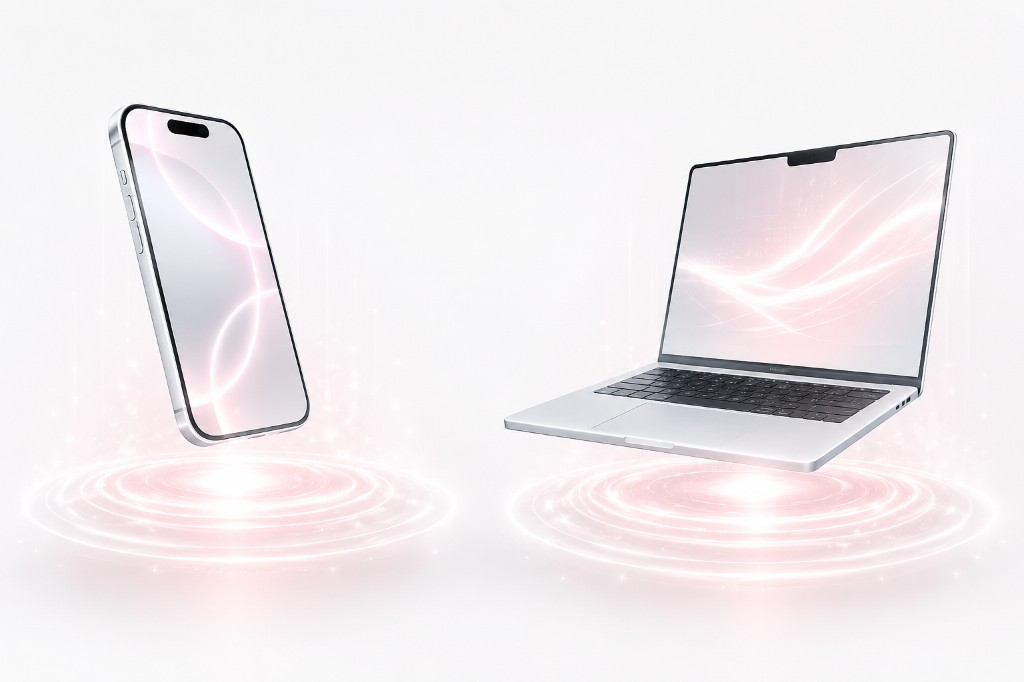
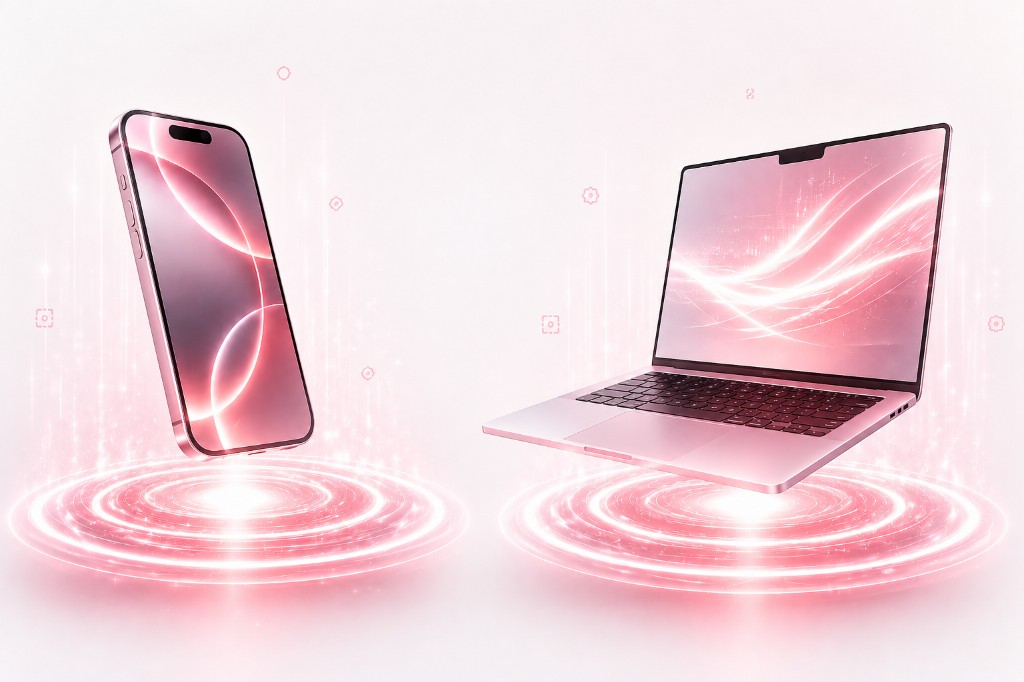
fix(home): lock hero device art and align light splash colors.
Update light hero PNG edge blending, rose-tinted splash palette, and fixed scene height so recommendation cards no longer shift the device backdrop.

diff --git a/scss/pc/_fixora-light-theme.scss b/scss/pc/_fixora-light-theme.scss
@@ -26,6 +26,7 @@
 
 			&__device-backdrop {
 				opacity: 1;
+				overflow: hidden;
 
 				&::before,
 				&::after {
@@ -34,24 +35,26 @@
 				}
 			}
 
+			/* Baked-in glow in light PNG — avoid extra ring that reads as a frame */
 			&__device-glow {
-				display: block;
-				background: radial-gradient(
-					ellipse,
-					rgba(225, 29, 72, 0.14) 0%,
-					rgba(225, 29, 72, 0.06) 45%,
-					transparent 70%
-				);
-				filter: blur(30px);
-				animation: fixora-hero-glow-pulse 4s ease-in-out infinite;
-				opacity: 1;
+				display: none;
 			}
 
 			&__device-img {
-				opacity: 0.85;
-				filter: drop-shadow(0 32px 56px rgba(193, 18, 31, 0.12));
-				mask-image: radial-gradient(ellipse 92% 95% at 50% 50%, #000 62%, transparent 96%);
-				-webkit-mask-image: radial-gradient(ellipse 92% 95% at 50% 50%, #000 62%, transparent 96%);
+				opacity: 1;
+				filter: none;
+				border: none;
+				outline: none;
+				box-shadow: none;
+				/* Fade all four edges so the PNG rectangle melts into splash/hero bg */
+				-webkit-mask-image:
+					linear-gradient(to bottom, transparent 0%, #000 11%, #000 84%, transparent 100%),
+					linear-gradient(to right, transparent 0%, #000 9%, #000 91%, transparent 100%);
+				-webkit-mask-composite: source-in;
+				mask-image:
+					linear-gradient(to bottom, transparent 0%, #000 11%, #000 84%, transparent 100%),
+					linear-gradient(to right, transparent 0%, #000 9%, #000 91%, transparent 100%);
+				mask-composite: intersect;
 			}
 
 			&__particle {

diff --git a/libs/components/background/fixoraSplashConfig.ts b/libs/components/background/fixoraSplashConfig.ts
@@ -1,7 +1,8 @@
 import type { FixoraThemeMode } from '../../theme/fixoraThemeMode';
 
 export const FIXORA_SPLASH_DARK_PALETTE = ['#FF6B35', '#FF7A45', '#FF8C42'] as const;
-export const FIXORA_SPLASH_LIGHT_PALETTE = ['#FF8A65', '#FF7043', '#FFAB91'] as const;
+/** Hero light PNG glow + brand rose — avoid orange-heavy splash on light mode */
+export const FIXORA_SPLASH_LIGHT_PALETTE = ['#E11D48', '#F43F5E', '#F472B6', '#FB7185'] as const;
 
 export type FixoraSplashIntensity = 'desktop' | 'mobile';
 
@@ -25,6 +26,6 @@ export function getFixoraSplashProps(mode: FixoraThemeMode, intensity: FixoraSpl
 		TRANSPARENT: true,
 		RAINBOW_MODE: false,
 		colorPalette: [...(isLight ? FIXORA_SPLASH_LIGHT_PALETTE : FIXORA_SPLASH_DARK_PALETTE)],
-		colorIntensity: isLight ? 0.22 : 0.14,
+		colorIntensity: isLight ? 0.26 : 0.14,
 	} as const;
 }

diff --git a/scss/pc/homepage/hero.scss b/scss/pc/homepage/hero.scss
@@ -105,9 +105,14 @@
 
 		&__scene {
 			position: absolute;
-			inset: 0;
+			top: 0;
+			left: 0;
+			right: 0;
+			/* Fixed visual band — do not grow when results/classification expand hero height */
+			height: clamp(640px, 68vh, 780px);
 			overflow: hidden;
 			z-index: 0;
+			pointer-events: none;
 
 			/* workshop silhouettes in the far corners */
 			&::before,

diff --git a/scss/fixora-splash-background.scss b/scss/fixora-splash-background.scss
@@ -17,7 +17,12 @@
 	}
 
 	&--light &__surface {
-		background: linear-gradient(180deg, #fff8f5 0%, #ffefe7 52%, #ffe4d6 100%);
+		background: linear-gradient(
+			180deg,
+			#fffafb 0%,
+			#fff5f7 45%,
+			#ffeff3 100%
+		);
 	}
 
 	&__fluid {
